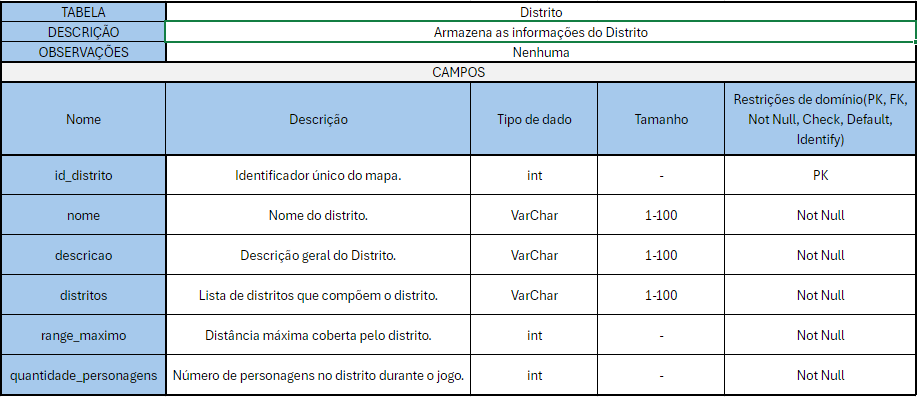
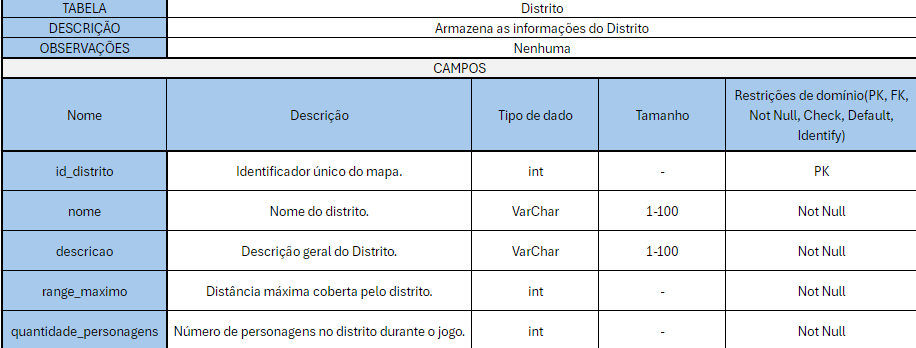
Alterações da Modelagem

diff --git a/docs/entrega-1/MER.md b/docs/entrega-1/MER.md
@@ -11,6 +11,7 @@ O Modelo Entidade-Relacionamento é uma abordagem conceitual que organiza as inf
     - NPC
         - Comerciante
         - Inimigo
+- Iventário
 - Missão
 - Diálogo
 - Item
@@ -34,10 +35,11 @@ O Modelo Entidade-Relacionamento é uma abordagem conceitual que organiza as inf
 ## **Atributos**
 
 - Personagem: [<ins>_id_personagem</ins>,tipo_]
-    - PC: [<ins>_id_personagem</ins>,id_celula,id_faccao,id_classe,id_inventario,energia,dano,hp,hp_atual,nivel,xp,nome,descricao_]
+    - PC: [<ins>_id_personagem</ins>,id_celula,id_faccao,id_classe,energia,dano,hp,hp_atual,nivel,xp,nome,descricao_]
     - NPC: [_<ins>_id_personagem</ins>,tipo_]
         - Comerciante: [_<ins>id_comerciante</ins>,id_personagem,id_celula,nome,descricao_]
-        - Inimigo: [_<ins>id_inimigo</ins>,id_personagem,id_celula,dano,xp,hp,hp_atual,nome,descricao_]  
+        - Inimigo: [_<ins>id_inimigo</ins>,id_personagem,id_celula,dano,xp,hp,hp_atual,nome,descricao_] 
+- Inventário: [_<ins>id_inventario</ins>,id_istancia_item,quatidade_itens,capacidade_maxima_]
 - Missão: [_<ins>id_missao</ins>,nome,descrição,dificuldade,objetivo_]
 - Diálogo: [_<ins>id_interacao</ins>,mensagem_atual,responsavel_mensagem_]
 - Item: [_<ins>id_item</ins>,tipo_]
@@ -45,7 +47,7 @@ O Modelo Entidade-Relacionamento é uma abordagem conceitual que organiza as inf
         - Armadura: [_<ins>id_item</ins>,id_celula,nome,descricao,valor,hp_bonus,raridade_]
         - Arma: [_<ins>id_item</ins>,id_celula,nome,descricao,valor,raridade,municao,dano_]
         - Implante cibernético: [_<ins>id_item</ins>,id_celula,nome,descricao,valor,raridade,custo_energia,dano_]
-- Instância Item: [_<ins>id_instanciaitem</ins>,id_inventario,id_item]
+- Instância Item: [_<ins>id_instancia_item</ins>,id_inventario,id_item]
 - Facção: [_<ins>id_faccao</ins>,tipo_]
     - Yazuka: [_<ins>id_faccao</ins>,nome,descricao,ideologia_]
     - Triad: [_<ins>id_faccao</ins>,nome,descricao,ideologia_]
@@ -53,7 +55,7 @@ O Modelo Entidade-Relacionamento é uma abordagem conceitual que organiza as inf
     - Daimyo [_<ins>id_classe</ins>,nome,descricao,hp_bonus,dano_bonus,energia_bonus_]
     - Hacker [_<ins>id_classe</ins>,nome,descricao,hp_bonus,dano_bonus,energia_bonus_]
     - Scoundrel: [_<ins>id_classe</ins>,nome,descricao,hp_bonus,dano_bonus,energia_bonus_]
-- Distrito: [_<ins>id_distrito</ins>,nome,descricao,distritos,range_maximo,quantidade_personagens_]  
+- Distrito: [_<ins>id_distrito</ins>,nome,descricao,range_maximo,quantidade_personagens_]  
 - Célula do mundo: [_<ins>id_celula</ins>,id_disrito,nome,descricao,destino_]
 - Instância Inimigo: [_<ins>id_instancia_inimigo</ins>,id_inimigo,id_celula,hp,hp_atual_]
 - Loja: [_<ins>id_loja</ins>,id_comerciante,id_instancia_item_]
